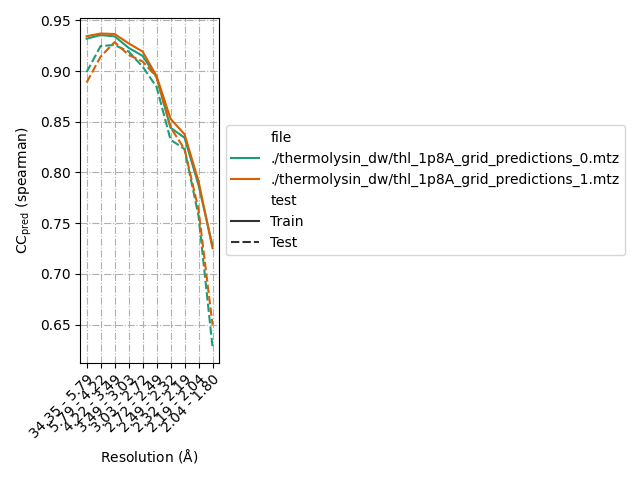
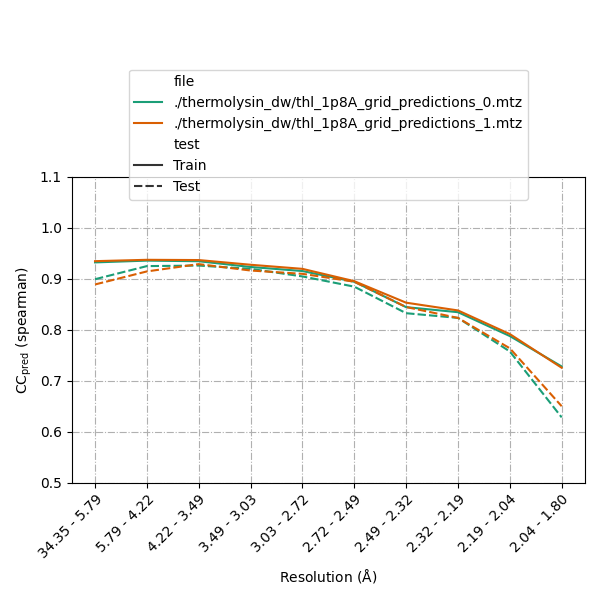
convert ipynb to md; edit plots

diff --git a/careless_stats/.ipynb_checkpoints/careless_stats-checkpoint.md b/careless_stats/.ipynb_checkpoints/careless_stats-checkpoint.md
@@ -1,0 +1,131 @@
+# Using `careless.stats`
+
+This notebook describes all the machine learning and data crossvalidation metrics that `careless` can compute. As an example, we describe the metrics from the analysis of anomalous signal from a thermolysin serial femtosecond crystallography dataset, as done in [Hekstra, Wang et al. 2025](https://www.biorxiv.org/content/10.1101/2024.07.22.604476v1). This notebook heavily draws on explanations from [Aldama, Dalton, and Hekstra 2023](https://journals.iucr.org/d/issues/2023/09/00/qi5002/index.html), which is good prerequisite reading for this notebook; this notebook also breaks down the common validation scripts found in `dw-examples`. 
+
+## Machine learning metrics
+
+`careless` is a package for scaling and merging crystallographic data using variational inference. Every time I process a dataset using `careless`, I will learn the distribution of the structure factor amplitudes and the scales for each miller index, given the intensity of each observed reflection in the input dataset. The scale function is implemented as a neural network, whose parameters are optimized by minimizing an objective function ('loss'). 
+
+```
+import careless.stats
+import matplotlib.pyplot as plt
+import pandas as pd
+
+training_metrics = pd.read_csv("./thermolysin_dw/thl_1p8A_grid_history.csv")
+training_metrics.plot(x="step",y="loss", loglog=True)
+plt.savefig("./thermolysin_dw/loss.png")
+plt.show()
+
+plt.clf()
+
+fig,ax = plt.subplots()
+training_metrics.plot(x="step",y="NLL", ax=ax,loglog=True)
+training_metrics.plot(x="step",y="NLL_val", ax=ax, loglog=True)
+training_metrics.plot(x="step",y="F KLDiv", ax=ax, loglog=True)
+plt.savefig("./thermolysin_dw/loss_components.png")
+plt.show()
+```
+![image](./thermolysin_dw/loss.png)
+
+
+We see that the loss goes down over the 30000 steps of training. This loss is smooth. If the loss is jagged, then I advise increasing `--mc-samples` for smoother training. Training takes about 17.5 minutes as according to the below log:
+
+``` 
+> head -c 16k ./thermolysin_dw/myoutput_19756592.err
+
+Training:   0%|                                                                                               | 0/30000 [00:00<?, ?it/s]WARNING: All log messages before absl::InitializeLog() is called are written to STDERR
+I0000 00:00:1707949336.689264 1893395 device_compiler.h:186] Compiled cluster using XLA!  This line is logged at most once for the lifetime of the process.
+Training:   0%| | 92/30000 [00:15<17:11, 29.01it/s, Grad Norm=1.08e+07, loss=3.59e+07, F KLDiv=1.28e+06, NLL=3.47e+07, NLL_val=3.48e+07]
+```
+
+This is the careless training log, which, at each step, reports all the machine learning metrics. We will go through most of these metrics now. 
+
+Our objective function is the standard ELBO, whose negative we minimize:
+$${{{{{{{-\rm{ELBO}}}}}}}}\left(q\right)={-{\mathbb{E}}}_{q}\left[\log p(I|F,{{\Sigma }})\right]+{D}_{KL}\left({q}_{F}\parallel p(F)\right) $$
+
+The first term on the right-hand side is the negative log likelihood (NLL), which represents the degree to which the structure factors faithfully represent the experimental intensities. The secod term is the Kullback-Liebler divergence between the variational distribution on the structure factor amplitudes, and a prior distribution. This term measures the similarity of two distributions that is minimal (zero) when the two are identical. We now plot the NLL, KL divergence (KLDiv), and the NLL_val, which is the NLL on a held-out validation set of reflections (the fraction of the data for which we can specify by `--test-fraction`. I typically choose `--test-fraction=0.1`. 
+
+![image](./thermolysin_dw/loss_components.png)
+
+The NLL and NLL_val are almost identical, indicating minimal overfitting, and both go down, indicating that the the neural network is learning the scales and structure factor amplitudes. The KLDiv actually goes down, as the structured prior introduced by the double-Wilson distribution is initially distinct from the factorized prior. 
+
+All these statistics can also be visualized with the command line: 
+
+`careless.plot_history -s ./thermolysin_dw/thl_1p8A_grid_history.csv -o ./thermolysin_dw/thl_plot_history.png`
+
+![image](./thermolysin_dw/thl_plot_history.png)
+
+## Elementary crystallographic statistics
+
+### Completeness and multiplicity
+`careless.stats` also computes standard crystallography statistics, such as completeness and $I/\sigma(I)$. 
+
+```
+>careless.completeness ./thermolysin_dw/thl_1p8A_grid_both.mtz -o ./thermolysin_dw/completeness.csv -b 10
+```
+Now, in python: 
+```
+pd.read_csv("./thermolysin_dw/completeness.csv")
+```
+![image](./thermolysin_dw/pd_completeness.png)
+
+The completeness of the last resolution bin is 0.88, and the overall completeness is 0.984. 
+
+```careless.isigi ./thermolysin_dw/thl_1p8A_grid_xval_[0-1].mtz --intensity-key I --uncertainty-key SigI -i ./thermolysin_dw/isigi.png -b 10```
+
+![image](./thermolysin_dw/isigi.png)
+
+## Validation statistics
+
+### $CC_\text{pred}$
+
+
+Careless provides several validation statistics that may help validate the quality of the merged data. The first is the $CC_\text{pred}$, the correlation coefficient between the intensities predicted by the model and the observed intensities. A typical $CC_\text{pred}$ depends on the data quality and declines as a function of resolution bin, as is the case for most examples in [Hekstra, Wang et al. 2025](https://www.biorxiv.org/content/10.1101/2024.07.22.604476v1). The $CC_\text{pred}$ is computed for a training set and a test set ($CC_\text{pred, train}$ and ($CC_\text{pred, test}$). A large gap between the two (>0.05) indicates that there is overfitting.
+
+```
+careless.ccpred ./thermolysin_dw/thl_1p8A_grid_predictions_[0-1].mtz -o ./thermolysin_dw/ccpred_res.csv \
+--image ./thermolysin_dw/ccpred_careless.png -b 10 -m spearman -l 0.5 1.1 \
+```
+
+The raw plot from the above shell command is reproduced below. 
+
+![image](./thermolysin_dw/ccpred_careless.png)
+
+The train-test gap is minimal until the last resolution bin. 
+
+### $CC_\text{1/2}$
+
+Careless can provide estimates of the $CC_\text{1/2}$, the half-data-set correlation coefficient. We recommend using this measure to determine the resolution cutoff ($CC_\text{1/2}$ > 0.3). This measure is determined from the cross-validation datasets, the number of which are specified using the `--half-dataset-repeats` flag.
+
+```
+careless.cchalf ./thermolysin_dw/*xval_both.mtz -o ./thermolysin_dw/cchalf_res.csv \
+ -i ./thermolysin_dw/cchalf_res.png -b 10 -m spearman -l 0. 1. \
+ ```
+
+![image](./thermolysin_dw/cchalf_res.png)
+
+$CC_\text{1/2}$ is very well-estimated by half datasets (small error bars over the half-dataset repeats) and > 0.3, even in the last resolution bin. 
+
+### $CC_\text{anom}$
+
+For anomalous datasets, we may estimate the half-dataset correlation of the anomalous difference signal. 
+
+```
+careless.ccanom ./thermolysin_dw/*xval_both.mtz -o ./thermolysin_dw/ccanom_res.csv \
+--image ./thermolysin_dw/ccanom_res.png -b 10 -l 0. 0.3
+```
+
+The $CC_\text{anom}$ is not expected to be large, and expected to decrease as a function of resolution. We observe some high-resolution tailing in datasets merged with a bivariate prior on the input structure factors. This is due to numerical issues that have been fixed not during the processing of this dataset but by `careless 0.4.9`. 
+
+### $R_\text{split}$
+```
+careless.rsplit ./thermolysin_dw/*xval_both.mtz -o ./thermolysin_dw/rsplit_res.csv --image ./thermolysin_dw/rsplit_res.png -b 10 -l 0 0.3
+```
+![image](./thermolysin_dw/rsplit_res.png)
+
+```
+careless.image_ccpred ./thermolysin_dw/thl_1p8A_grid_predictions_[0-1].mtz -o ./thermolysin_dw/imagecc_res.csv \
+--image ./thermolysin_dw/imagecc_careless.png -m weighted -l 0. 1.1
+```
+
+![image](./thermolysin_dw/imagecc_careless.png)

diff --git a/careless_stats/careless_stats.md b/careless_stats/careless_stats.md
@@ -1,0 +1,131 @@
+# Using `careless.stats`
+
+This notebook describes all the machine learning and data crossvalidation metrics that `careless` can compute. As an example, we describe the metrics from the analysis of anomalous signal from a thermolysin serial femtosecond crystallography dataset, as done in [Hekstra, Wang et al. 2025](https://www.biorxiv.org/content/10.1101/2024.07.22.604476v1). This notebook heavily draws on explanations from [Aldama, Dalton, and Hekstra 2023](https://journals.iucr.org/d/issues/2023/09/00/qi5002/index.html), which is good prerequisite reading for this notebook; this notebook also breaks down the common validation scripts found in `dw-examples`. 
+
+## Machine learning metrics
+
+`careless` is a package for scaling and merging crystallographic data using variational inference. Every time I process a dataset using `careless`, I will learn the distribution of the structure factor amplitudes and the scales for each miller index, given the intensity of each observed reflection in the input dataset. The scale function is implemented as a neural network, whose parameters are optimized by minimizing an objective function ('loss'). 
+
+```
+import careless.stats
+import matplotlib.pyplot as plt
+import pandas as pd
+
+training_metrics = pd.read_csv("./thermolysin_dw/thl_1p8A_grid_history.csv")
+training_metrics.plot(x="step",y="loss", loglog=True)
+plt.savefig("./thermolysin_dw/loss.png")
+plt.show()
+
+plt.clf()
+
+fig,ax = plt.subplots()
+training_metrics.plot(x="step",y="NLL", ax=ax,loglog=True)
+training_metrics.plot(x="step",y="NLL_val", ax=ax, loglog=True)
+training_metrics.plot(x="step",y="F KLDiv", ax=ax, loglog=True)
+plt.savefig("./thermolysin_dw/loss_components.png")
+plt.show()
+```
+![image](./thermolysin_dw/loss.png)
+
+
+We see that the loss goes down over the 30000 steps of training. This loss is smooth. If the loss is jagged, then I advise increasing `--mc-samples` for smoother training. Training takes about 17.5 minutes as according to the below log:
+
+``` 
+> head -c 16k ./thermolysin_dw/myoutput_19756592.err
+
+Training:   0%|                                                                                               | 0/30000 [00:00<?, ?it/s]WARNING: All log messages before absl::InitializeLog() is called are written to STDERR
+I0000 00:00:1707949336.689264 1893395 device_compiler.h:186] Compiled cluster using XLA!  This line is logged at most once for the lifetime of the process.
+Training:   0%| | 92/30000 [00:15<17:11, 29.01it/s, Grad Norm=1.08e+07, loss=3.59e+07, F KLDiv=1.28e+06, NLL=3.47e+07, NLL_val=3.48e+07]
+```
+
+This is the careless training log, which, at each step, reports all the machine learning metrics. We will go through most of these metrics now. 
+
+Our objective function is the standard ELBO, whose negative we minimize:
+$${{{{{{{-\rm{ELBO}}}}}}}}\left(q\right)={-{\mathbb{E}}}_{q}\left[\log p(I|F,{{\Sigma }})\right]+{D}_{KL}\left({q}_{F}\parallel p(F)\right) $$
+
+The first term on the right-hand side is the negative log likelihood (NLL), which represents the degree to which the structure factors faithfully represent the experimental intensities. The secod term is the Kullback-Liebler divergence between the variational distribution on the structure factor amplitudes, and a prior distribution. This term measures the similarity of two distributions that is minimal (zero) when the two are identical. We now plot the NLL, KL divergence (KLDiv), and the NLL_val, which is the NLL on a held-out validation set of reflections (the fraction of the data for which we can specify by `--test-fraction`. I typically choose `--test-fraction=0.1`. 
+
+![image](./thermolysin_dw/loss_components.png)
+
+The NLL and NLL_val are almost identical, indicating minimal overfitting, and both go down, indicating that the the neural network is learning the scales and structure factor amplitudes. The KLDiv actually goes down, as the structured prior introduced by the double-Wilson distribution is initially distinct from the factorized prior. 
+
+All these statistics can also be visualized with the command line: 
+
+`careless.plot_history -s ./thermolysin_dw/thl_1p8A_grid_history.csv -o ./thermolysin_dw/thl_plot_history.png`
+
+![image](./thermolysin_dw/thl_plot_history.png)
+
+## Elementary crystallographic statistics
+
+### Completeness and multiplicity
+`careless.stats` also computes standard crystallography statistics, such as completeness and $I/\sigma(I)$. 
+
+```
+>careless.completeness ./thermolysin_dw/thl_1p8A_grid_both.mtz -o ./thermolysin_dw/completeness.csv -b 10
+```
+Now, in python: 
+```
+pd.read_csv("./thermolysin_dw/completeness.csv")
+```
+![image](./thermolysin_dw/pd_completeness.png)
+
+The completeness of the last resolution bin is 0.88, and the overall completeness is 0.984. 
+
+```careless.isigi ./thermolysin_dw/thl_1p8A_grid_xval_[0-1].mtz --intensity-key I --uncertainty-key SigI -i ./thermolysin_dw/isigi.png -b 10```
+
+![image](./thermolysin_dw/isigi.png)
+
+## Validation statistics
+
+### $CC_\text{pred}$
+
+
+Careless provides several validation statistics that may help validate the quality of the merged data. The first is the $CC_\text{pred}$, the correlation coefficient between the intensities predicted by the model and the observed intensities. A typical $CC_\text{pred}$ depends on the data quality and declines as a function of resolution bin, as is the case for most examples in [Hekstra, Wang et al. 2025](https://www.biorxiv.org/content/10.1101/2024.07.22.604476v1). The $CC_\text{pred}$ is computed for a training set and a test set ($CC_\text{pred, train}$ and ($CC_\text{pred, test}$). A large gap between the two (>0.05) indicates that there is overfitting.
+
+```
+careless.ccpred ./thermolysin_dw/thl_1p8A_grid_predictions_[0-1].mtz -o ./thermolysin_dw/ccpred_res.csv \
+--image ./thermolysin_dw/ccpred_careless.png -b 10 -m spearman -l 0.5 1.1 \
+```
+
+The raw plot from the above shell command is reproduced below. 
+
+![image](./thermolysin_dw/ccpred_careless.png)
+
+The train-test gap is minimal until the last resolution bin. 
+
+### $CC_\text{1/2}$
+
+Careless can provide estimates of the $CC_\text{1/2}$, the half-data-set correlation coefficient. We recommend using this measure to determine the resolution cutoff ($CC_\text{1/2}$ > 0.3). This measure is determined from the cross-validation datasets, the number of which are specified using the `--half-dataset-repeats` flag.
+
+```
+careless.cchalf ./thermolysin_dw/*xval_both.mtz -o ./thermolysin_dw/cchalf_res.csv \
+ -i ./thermolysin_dw/cchalf_res.png -b 10 -m spearman -l 0. 1. \
+ ```
+
+![image](./thermolysin_dw/cchalf_res.png)
+
+$CC_\text{1/2}$ is very well-estimated by half datasets (small error bars over the half-dataset repeats) and > 0.3, even in the last resolution bin. 
+
+### $CC_\text{anom}$
+
+For anomalous datasets, we may estimate the half-dataset correlation of the anomalous difference signal. 
+
+```
+careless.ccanom ./thermolysin_dw/*xval_both.mtz -o ./thermolysin_dw/ccanom_res.csv \
+--image ./thermolysin_dw/ccanom_res.png -b 10 -l 0. 0.3
+```
+
+The $CC_\text{anom}$ is not expected to be large, and expected to decrease as a function of resolution. We observe some high-resolution tailing in datasets merged with a bivariate prior on the input structure factors. This is due to numerical issues that have been fixed not during the processing of this dataset but by `careless 0.4.9`. 
+
+### $R_\text{split}$
+```
+careless.rsplit ./thermolysin_dw/*xval_both.mtz -o ./thermolysin_dw/rsplit_res.csv --image ./thermolysin_dw/rsplit_res.png -b 10 -l 0 0.3
+```
+![image](./thermolysin_dw/rsplit_res.png)
+
+```
+careless.image_ccpred ./thermolysin_dw/thl_1p8A_grid_predictions_[0-1].mtz -o ./thermolysin_dw/imagecc_res.csv \
+--image ./thermolysin_dw/imagecc_careless.png -m weighted -l 0. 1.1
+```
+
+![image](./thermolysin_dw/imagecc_careless.png)
